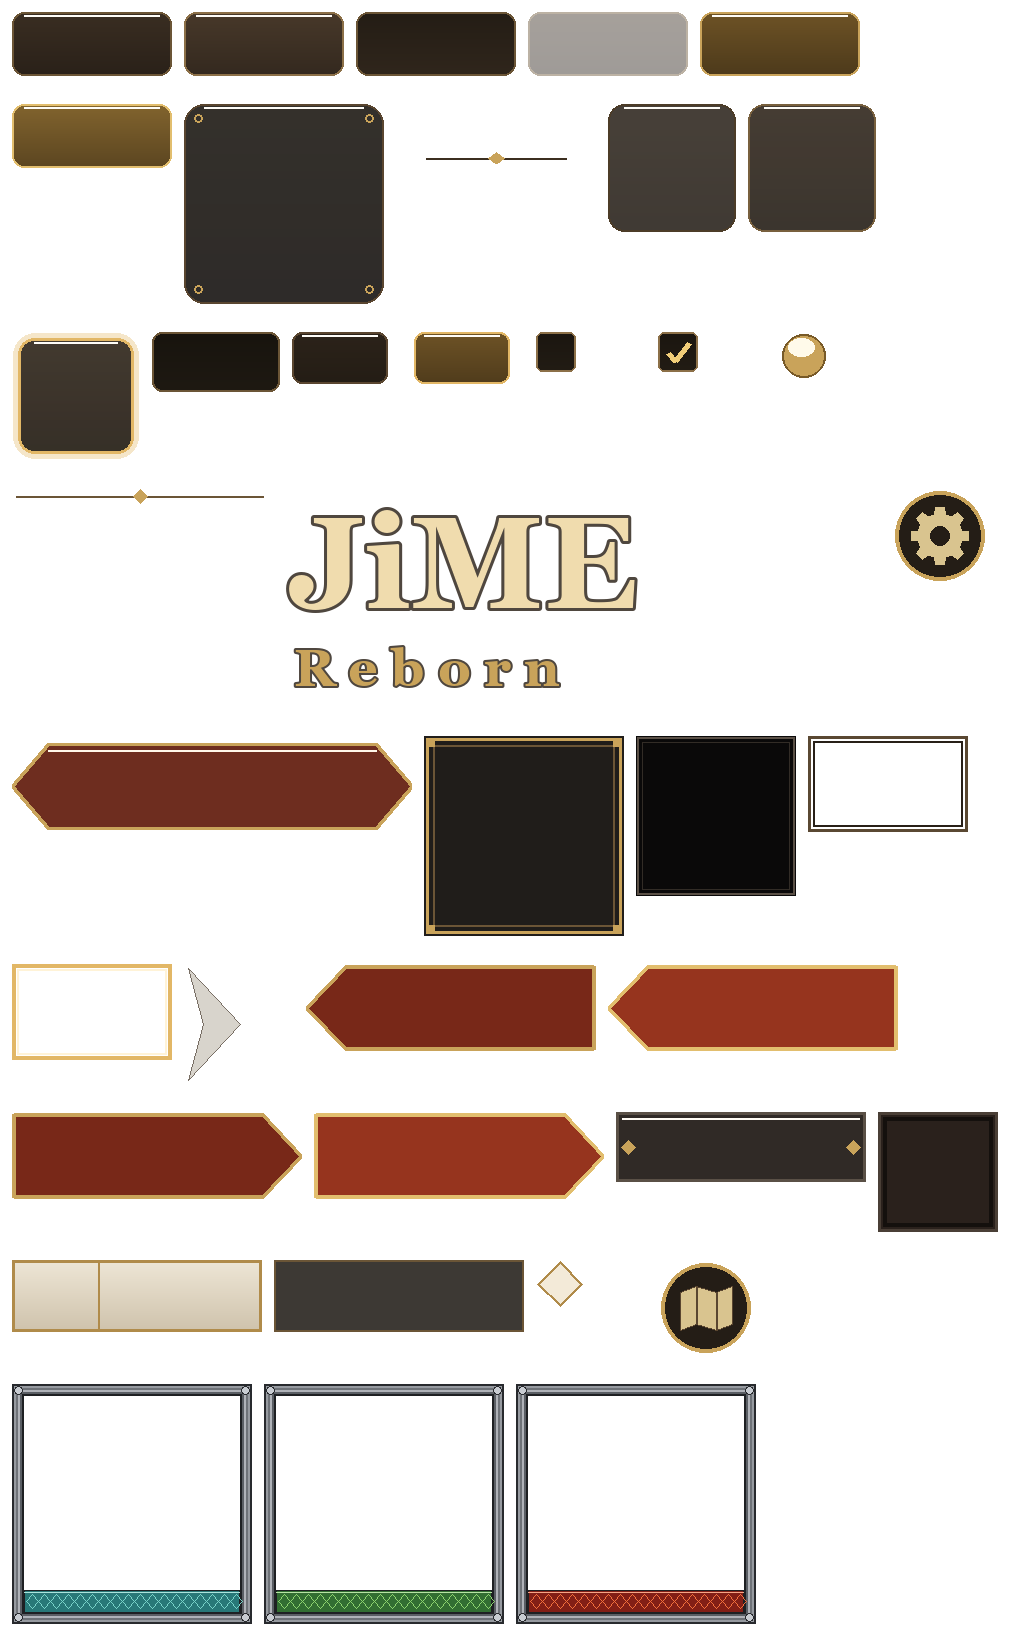
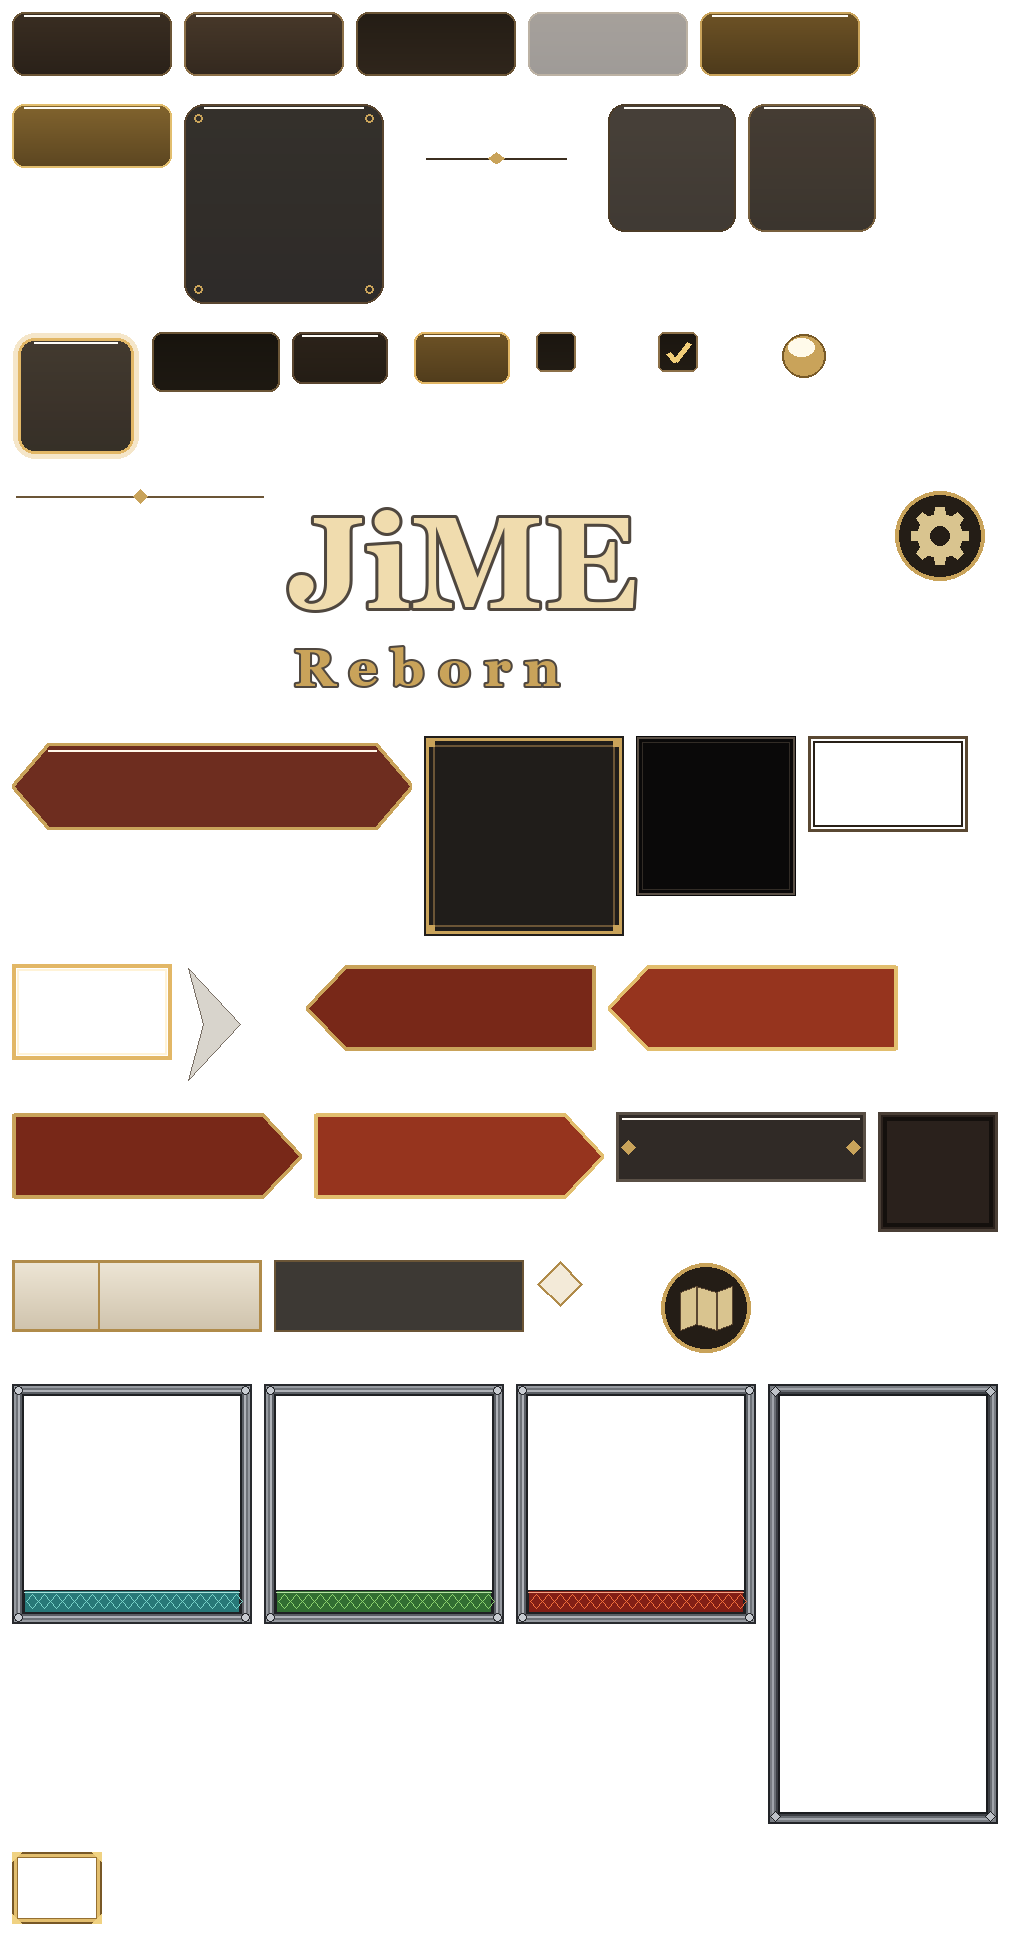
Demo campaign splash, adventure fog drifting to 8 o'clock in the lower two thirds, starting gear like the original (armor over the portrait, hero frame, item picture frames)
Claude-Session: https://claude.ai/code/session_01L8aGjgA4exAss1WkdLM4Fb

diff --git a/apps/app/src/styles.css b/apps/app/src/styles.css
@@ -977,8 +977,9 @@ textarea.ed-input { resize: vertical; white-space: pre-wrap; }
 .lo-slot.full { cursor: pointer; }
 .lo-slot img { width: 100%; height: 100%; object-fit: cover; object-position: top; }
 @media (hover: hover) { .lo-slot.full:hover { filter: brightness(0.75); } }
-.skinned .lo-hero { border-color: transparent; border-image: var(--sk-frame-thumb) var(--sk-frame-thumb-slice) / var(--sk-frame-thumb-w); }
-.skinned .lo-hero.on { box-shadow: none; border-image-source: var(--sk-frame-thumb-on); }
+/* hero cards: the original's HeroFrame (steel), the chosen one glows */
+.skinned .lo-hero { border-color: transparent; border-image: var(--sk-frame-hero) var(--sk-frame-hero-slice) / var(--sk-frame-hero-w); }
+.skinned .lo-hero.on { box-shadow: none; filter: drop-shadow(0 0 calc(10 * var(--u)) rgba(255, 200, 100, 0.9)); }
 .skinned .lo-hero-name { border: none; background: none; border-style: solid; border-color: transparent; border-image: var(--sk-plate) var(--sk-plate-slice) / var(--sk-plate-w); }
 .skinned .lo-slots { background: none; border-color: transparent; border-image: var(--sk-frame-art) var(--sk-frame-art-slice) / var(--sk-frame-art-w); }
 .skinned .lo-slot { border-color: transparent; box-shadow: none; background: none; border-image: var(--sk-slot) var(--sk-slot-slice) / var(--sk-slot-w); }
@@ -1000,14 +1001,26 @@ textarea.ed-input { resize: vertical; white-space: pre-wrap; }
   gap: calc(22 * var(--u)); max-width: calc(100vw - 16px); }
 .lo-gear-col { flex: 0 0 calc(250 * var(--u)); display: flex; flex-direction: column; align-items: center; gap: calc(6 * var(--u)); }
 .lo-gear-col > small { font-family: "JiME Title", Georgia, serif; font-size: calc(24 * var(--u)); color: #f3e2b8; text-shadow: 0 1px 3px #000; margin-top: calc(4 * var(--u)); }
-.lo-hero.lo-gear-hero { height: calc(370 * var(--u)); cursor: default; }
+.lo-hero.lo-gear-hero { height: calc(500 * var(--u)); flex: 0 0 auto; cursor: default; -webkit-mask-image: none; mask-image: none; }
+/* the armor over the portrait's foot, on a darkening */
+.lo-gear-armor { position: absolute; left: calc(-6 * var(--u)); right: calc(-6 * var(--u)); bottom: calc(4 * var(--u)); z-index: 2; display: flex;
+  flex-direction: column; align-items: center; gap: calc(4 * var(--u)); padding-top: calc(40 * var(--u));
+  background: linear-gradient(transparent, rgba(0, 0, 0, 0.55) 45%); }
+.lo-gear-armor > small, .lo-gear-col > small { font-family: "JiME Title", Georgia, serif; font-size: calc(24 * var(--u)); color: #fff;
+  text-shadow: 0 0 3px #000, 0 1px 3px #000; }
+.lo-gear-armor .lo-item { width: 100%; }
 @media (hover: hover) { .lo-hero.lo-gear-hero:hover { transform: none; } }
 .lo-item { position: relative; box-sizing: border-box; width: calc(250 * var(--u)); height: calc(72 * var(--u)); flex: 0 0 auto; padding: 0 calc(30 * var(--u)) 0 0;
   display: flex; align-items: center; gap: calc(10 * var(--u)); cursor: pointer; font: inherit; color: #1d1712; text-align: left;
   background: linear-gradient(#eee6d6, #cfc3ac); border: 2px solid #b08b4a; border-radius: 3px; box-shadow: 0 2px 6px rgba(0, 0, 0, 0.6); }
 .lo-item.empty { background: rgba(30, 25, 20, 0.85); color: #b9a582; }
 .lo-item-icon { flex: 0 0 calc(86 * var(--u)); align-self: stretch; overflow: hidden; background: #2a221a; }
+.lo-item-icon { position: relative; }
 .lo-item-icon img { width: 100%; height: 100%; object-fit: cover; display: block; }
+/* the item picture's own frame (skin frame.icon) */
+.skinned .lo-item-icon::after { content: ""; position: absolute; inset: 0; pointer-events: none; border: 0 solid transparent;
+  border-image: var(--sk-frame-icon) var(--sk-frame-icon-slice) / var(--sk-frame-icon-w); }
+.skinned .lo-item.empty .lo-item-icon::after { display: none; }
 .lo-item b { flex: 1; min-width: 0; font-family: "JiME Title", Georgia, serif; font-weight: normal; font-size: calc(26 * var(--u)); line-height: 1.05;
   text-align: center; overflow: hidden; display: -webkit-box; -webkit-line-clamp: 2; -webkit-box-orient: vertical; }
 .lo-item-level { position: absolute; right: calc(-8 * var(--u)); bottom: calc(-8 * var(--u)); width: calc(34 * var(--u)); height: calc(34 * var(--u)); display: flex;

diff --git a/apps/app/src/screens/menu/MenuBackground.tsx b/apps/app/src/screens/menu/MenuBackground.tsx
@@ -19,6 +19,8 @@ export interface Effect {
   type: "fog" | "rays" | "leaves" | "water" | "steam" | "embers" | "distort" | "clouds";
   /** clouds: tile width (share of the box), tiles moved per cycle, a vertical fade when there is no mask */
   tile?: number; dx?: number; dy?: number; fadeFrom?: number; fadeTo?: number;
+  /** clouds: where they show, top to bottom (0..1): gone above band[0], full from band[1] to band[2], gone below band[3] */
+  band?: [number, number, number, number];
   /** distort: how fast the waver rises (heat haze; 0 = it only sways), the noise's fineness, a brightness flicker */
   rise?: number; scale?: number; flicker?: number;
   /** embers: their colour; hover: shown only while the layered art is hovered / chosen (LayeredArt) */
@@ -430,7 +432,9 @@ function Clouds({ e }: { e: Effect }) {
     return () => { cancelAnimationFrame(raf); ro.disconnect(); };
   }, [e]);
   if (!e.texture) return null;
+  const b = e.band;
   const mask = e.mask ? `url("${assetUrl(e.mask)}")`
+    : b ? `linear-gradient(to bottom, transparent ${b[0] * 100}%, #000 ${b[1] * 100}%, #000 ${b[2] * 100}%, transparent ${b[3] * 100}%)`
     : `linear-gradient(to bottom, #000 ${(e.fadeFrom ?? 1) * 100}%, transparent ${(e.fadeTo ?? 1) * 100}%)`;
   return <div ref={ref} className="pm-clouds" style={{ opacity: e.opacity ?? 0.7, backgroundImage: `url("${assetUrl(e.texture)}")`,
     maskImage: mask, WebkitMaskImage: mask, maskSize: "100% 100%", WebkitMaskSize: "100% 100%", ...(e.mask ? { maskMode: "luminance" } : {}) } as React.CSSProperties} />;

diff --git a/apps/app/src/screens/menu/PlainTitle.tsx b/apps/app/src/screens/menu/PlainTitle.tsx
@@ -247,12 +247,15 @@ export function PlainTitle({ onPlay, onTools, hasOriginal }: {
             const second = !twoHanded(row[1] ?? null) && (row[2] !== null || !hobbit(h));
             return (
               <div key={h} className="lo-gear-col">
+                {/* the portrait card reaches down behind the armor (its label and card lie over the portrait's foot) */}
                 <div className="lo-hero lo-gear-hero">
                   <b className="lo-hero-name"><span>{ui.raw(H[String(h)]?.NameKey)}</span></b>
                   <span className="lo-hero-pic">{(a?.portrait || a?.icon) ? <img src={ui.pic(a.portrait ?? a.icon)} alt="" /> : <i>{ui.raw(H[String(h)]?.NameKey).slice(0, 1)}</i>}</span>
+                  <div className="lo-gear-armor">
+                    <small>{t("armor")}</small>
+                    {itemCard(row[0] ?? null, () => setReplace({ hero: i, slot: 0 }))}
+                  </div>
                 </div>
-                <small>{t("armor")}</small>
-                {itemCard(row[0] ?? null, () => setReplace({ hero: i, slot: 0 }))}
                 <small>{t("inHands")}</small>
                 {itemCard(row[1] ?? null, () => setReplace({ hero: i, slot: 1 }))}
                 {second && itemCard(row[2] ?? null, () => setReplace({ hero: i, slot: 2 }))}

diff --git a/tools/menu-theme/build_theme.py b/tools/menu-theme/build_theme.py
@@ -165,6 +165,24 @@ def clouds_texture(n=512, seed=11):
     return Image.fromarray(np.dstack([rgb, alpha]), "RGBA")
 
 
+def fog_tile_texture(n=512, seed=5):
+    """Soft fog that wraps both ways (the fog bands' look, for drifting in any direction): big blurred blobs"""
+    rng = np.random.default_rng(seed)
+    acc = np.zeros((n, n), np.float32)
+    for cell, weight in [(256, 0.45), (128, 0.35), (64, 0.2)]:
+        g = n // cell
+        small = rng.random((g, g)).astype(np.float32)
+        ring = np.tile(small, (3, 3))
+        img = Image.fromarray((ring * 255).astype(np.uint8)).resize((3 * n, 3 * n), Image.BICUBIC)
+        img = img.filter(ImageFilter.GaussianBlur(cell / 2.5)).crop((n, n, 2 * n, 2 * n))
+        acc += np.asarray(img, np.float32) / 255 * weight
+    acc = (acc - acc.min()) / (acc.max() - acc.min())
+    acc = np.clip((acc - 0.22) * 1.5, 0, 1)
+    alpha = (acc * 255).astype(np.uint8)
+    rgb = np.full((n, n, 3), (255, 240, 222), np.uint8)
+    return Image.fromarray(np.dstack([rgb, alpha]), "RGBA")
+
+
 def rays_texture(sx, sy, w=1280, h=720, seed=3):
     """Sun rays from (sx, sy) (0..1 of the picture): soft beams of random width and strength, fading with distance"""
     rng = np.random.default_rng(seed)
@@ -300,8 +318,9 @@ def layered_art(folder, name):
     of that depth. Effects' fields as in the menu's parallax, x / y / width fractions of the whole picture (fog: y,
     height, opacity, speed, flip; clouds: like the original's adventure card, a seamless texture tiled over the picture
     (texture: own file, else generated), tile (its width, share of the picture's; 0.6), dx, dy (tiles moved per cycle;
-    -2, 1), speed (the cycle, s; 80), opacity (0.7), mask (a picture in this folder: white = clouds) or fadeFrom /
-    fadeTo (a fade downwards, 0..1 of the height); embers: x, y, width, count, color, size [min, max] px, speed; steam: x, y, width,
+    -2, 1), speed (the cycle, s; 80), opacity (0.7), look ("fog": soft fog instead of clouds), mask (a picture in this
+    folder: white = clouds), band [gone above, full from, full to, gone below] (0..1 of the height) or fadeFrom /
+    fadeTo (a fade downwards); embers: x, y, width, count, color, size [min, max] px, speed; steam: x, y, width,
     count, opacity; rays: x, y, opacity; leaves: "sheet" a picture of one or more leaves in this folder, count,
     size [min, max] px, wind, speed).
     """
@@ -343,9 +362,10 @@ def layered_art(folder, name):
             if "texture" in e:
                 e["texture"] = save_webp(Image.open(os.path.join(folder, e["texture"])).convert("RGBA"), f"images/ui-skin/art/{name}/clouds.webp", 85)
             else:
-                rel = "images/ui-skin/art/clouds.webp"
+                fog = e.pop("look", "clouds") == "fog"
+                rel = f"images/ui-skin/art/{'fog-tile' if fog else 'clouds'}.webp"
                 if not os.path.exists(os.path.join(OUT, rel)):
-                    save_webp(clouds_texture(), rel, 85)
+                    save_webp(fog_tile_texture() if fog else clouds_texture(), rel, 85)
                 e["texture"] = rel
             if "mask" in e:
                 m = Image.open(os.path.join(folder, e["mask"])).convert("L")

diff --git a/tools/demo-pack/build_demo.py b/tools/demo-pack/build_demo.py
@@ -25,6 +25,7 @@ REPO = os.path.abspath(os.path.join(os.path.dirname(__file__), "..", ".."))
 BUNDLED = os.path.join(REPO, "apps", "app", "public", "bundled-packs")
 PACK_ID = "jime-demo"
 OUT = os.path.join(BUNDLED, PACK_ID)
+ART = os.path.join(os.path.dirname(os.path.abspath(__file__)), "art")  # own pictures (the campaign's splash)
 LANGS = ("ru", "en", "it")
 SHEET = "Demo"
 
@@ -54,6 +55,13 @@ def save_png(img, rel):
     p = os.path.join(OUT, rel)
     os.makedirs(os.path.dirname(p), exist_ok=True)
     img.save(p, optimize=True)
+    return rel
+
+
+def save_jpg(img, rel, quality=86):
+    p = os.path.join(OUT, rel)
+    os.makedirs(os.path.dirname(p), exist_ok=True)
+    img.save(p, quality=quality, optimize=True, progressive=True)
     return rel
 
 
@@ -364,9 +372,19 @@ def build_art(db):
     letters = {"ENEMY_DEMO_BANDIT": "Р", "ENEMY_DEMO_WOLF": "В", "ENEMY_DEMO_SHADE": "Т"}
     write_json("images/enemies/enemies.json", {str(i): save_png(portrait(letters[k], (110, 50, 45), 128), f"images/enemies/{i}.png") for i, k, *_ in ENEMIES})
     write_json("images/items/items.json", {str(i): {"Icon": save_png(portrait(TEXTS[k]["ru"][0], (90, 80, 60), 96), f"images/items/{i}.png")} for i, k, *_ in ITEMS})
-    camp = card(1024, 576, TEXTS["CAM_DEMO_TITLE"]["ru"], "JiME Reborn · демо", (40, 52, 70), (20, 18, 22))
-    write_json("images/campaigns/campaigns.json", {str(CAMPAIGN): {"Image": save_png(camp, f"images/campaigns/{CAMPAIGN}.png"),
-                                                                    "ThumbnailImage": save_png(camp.resize((256, 144)), f"images/campaigns/{CAMPAIGN}_thumb.png")}})
+    # the campaign's splash: tools/demo-pack/art/campaign.(png|jpg|webp) (16:9, the important part on the right), else drawn
+    own = next((os.path.join(ART, f) for f in sorted(os.listdir(ART)) if os.path.splitext(f)[0] == "campaign") , None) if os.path.isdir(ART) else None
+    if own:
+        camp = Image.open(own).convert("RGB")
+        camp.thumbnail((1920, 1080), Image.LANCZOS)
+        thumb = camp.copy()
+        thumb.thumbnail((480, 270), Image.LANCZOS)
+        write_json("images/campaigns/campaigns.json", {str(CAMPAIGN): {"Image": save_jpg(camp, f"images/campaigns/{CAMPAIGN}.jpg"),
+                                                                        "ThumbnailImage": save_jpg(thumb, f"images/campaigns/{CAMPAIGN}_thumb.jpg")}})
+    else:
+        camp = card(1024, 576, TEXTS["CAM_DEMO_TITLE"]["ru"], "JiME Reborn · демо", (40, 52, 70), (20, 18, 22))
+        write_json("images/campaigns/campaigns.json", {str(CAMPAIGN): {"Image": save_png(camp, f"images/campaigns/{CAMPAIGN}.png"),
+                                                                        "ThumbnailImage": save_png(camp.resize((256, 144)), f"images/campaigns/{CAMPAIGN}_thumb.png")}})
     advs = {}
     for a in ADVENTURES:
         img = card(1024, 576, TEXTS[a["model"]["NameKey"]]["ru"], TEXTS[a["model"]["LocationKey"]]["ru"], (60, 70, 50), (25, 22, 18))

diff --git a/tools/menu-theme/build_skin.py b/tools/menu-theme/build_skin.py
@@ -68,6 +68,10 @@ REGIONS = [
     ("frame.diff.adventure", 240, 240, [12, 12, 34, 12]),
     ("frame.diff.normal", 240, 240, [12, 12, 34, 12]),
     ("frame.diff.hard", 240, 240, [12, 12, 34, 12]),
+    # hero cards (selection, starting gear): the original's HeroFrame, steel around the name plate and the portrait;
+    # the frame of an item's picture (left on the item card)
+    ("frame.hero", 230, 440, [16, 16, 16, 16]),
+    ("frame.icon", 90, 72, [10, 10, 10, 10]),
 ]
 # where the app uses each region (guides/regions.md)
 USE = {
@@ -82,6 +86,8 @@ USE = {
     "slot": "the chosen party's slots", "item": "item cards (the picture sits on the left 90 px)", "item.empty": "an empty item slot",
     "level": "the item level diamond", "map": "the map button of the rest",
     "frame.diff": "the borders of the difficulty cards (layers.json frameSkin, over the back layer, under the figures)",
+    "frame.hero": "hero cards: hero selection, starting gear (around the name plate and the portrait)",
+    "frame.icon": "the frame over an item's picture on its card",
 }
 # regions that always take the element's whole height (top + bottom slices meet; only the middle stretches sideways)
 FIT_HEIGHT = ("banner", "plate", "button.back", "button.back.hover", "button.next", "button.next.hover")
@@ -284,6 +290,25 @@ def draw(name, w, h):
         for x in range(14, w - 14, 12):
             d.polygon([(x, y0 + 11), (x + 6, y0 + 4), (x + 12, y0 + 11), (x + 6, y0 + 18)], outline=(*lt, 255))
         d.line([(12, y0 + 2), (w - 13, y0 + 2)], fill=(*lt, 160), width=1)
+        return img
+    if name == "frame.hero":
+        img = Image.new("RGBA", (w, h), (0, 0, 0, 0))
+        d = ImageDraw.Draw(img)
+        steel = [(34, 36, 40), (120, 124, 130), (160, 164, 170), (104, 108, 114), (60, 63, 68), (26, 28, 31)]
+        for i, c in enumerate(steel):
+            d.rectangle([i * 2, i * 2, w - 1 - i * 2, h - 1 - i * 2], outline=(*c, 255), width=2)
+        for x, y in ((7, 7), (w - 8, 7), (7, h - 8), (w - 8, h - 8)):
+            d.polygon([(x, y - 5), (x + 5, y), (x, y + 5), (x - 5, y)], fill=(190, 194, 200, 255), outline=(30, 32, 35, 255))
+        return img
+    if name == "frame.icon":
+        img = Image.new("RGBA", (w, h), (0, 0, 0, 0))
+        d = ImageDraw.Draw(img)
+        d.rectangle([0, 0, w - 1, h - 1], outline=(120, 88, 38, 255), width=2)
+        d.rectangle([2, 2, w - 3, h - 3], outline=(226, 190, 110, 255), width=3)
+        d.rectangle([5, 5, w - 6, h - 6], outline=(150, 112, 50, 255), width=1)
+        # notched gold corners
+        for x, y, sx, sy in ((0, 0, 1, 1), (w - 1, 0, -1, 1), (0, h - 1, 1, -1), (w - 1, h - 1, -1, -1)):
+            d.polygon([(x, y), (x + 9 * sx, y), (x, y + 9 * sy)], fill=(240, 210, 130, 255))
         return img
     if name == "map":
         img = Image.new("RGBA", (w, h), (0, 0, 0, 0))
